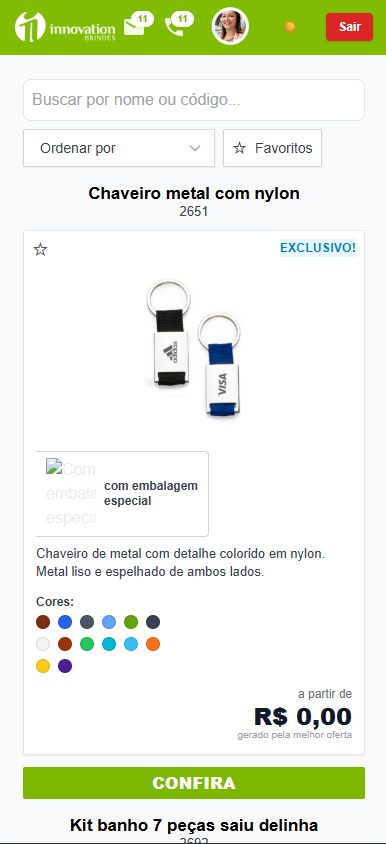
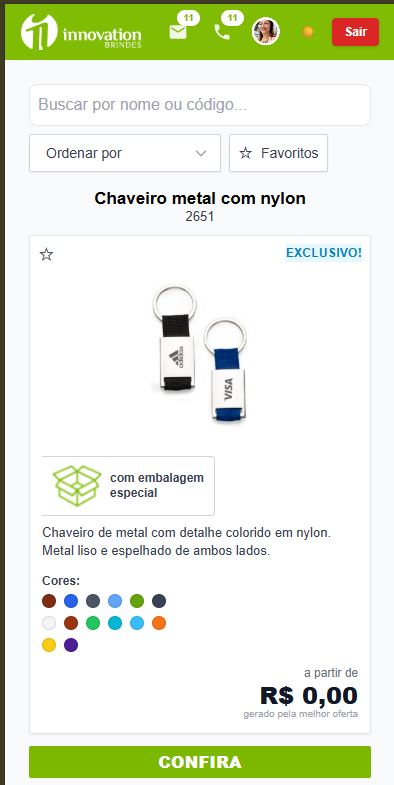
Atualiza imgs, melhora espacamento de itens navbar

diff --git a/src/components/Navbar.tsx b/src/components/Navbar.tsx
@@ -1,8 +1,7 @@
-import React from "react";
+import React, { useMemo } from "react";
 import Image from "next/image";
 import Link from "next/link";
 import ThemeToggle from "@/components/ThemeToggle";
-import { useMemo } from "react";
 import { useRouter } from "next/router";
 import { clearToken } from "@/utils/authStorage";
 import { useAuthUser } from "@/store/authUser";
@@ -74,23 +73,21 @@ export default function Navbar({
               <Image
                 src="/images/logo.webp"
                 alt="Innovation Brindes"
-                width={100}
-                height={100}
+                width={120}
+                height={120}
                 priority
                 className="filter brightness-0 invert"
               />
             </Link>
           </div>
-          <div className="flex items-center gap-5">
+          <div className="flex items-center gap-2 sm:gap-5">
             {showIcons && (
-              <div className="flex items-center gap-4 text-white">
-                <div className="relative">
+              <div className="flex items-center gap-2 sm:gap-3 text-white">
+                <span className="relative inline-flex h-9 w-9 items-center justify-center rounded-md">
                   <svg
-                    width="24"
-                    height="24"
+                    className="h-5 w-5 opacity-90"
                     viewBox="0 0 24 24"
                     aria-hidden="true"
-                    className="opacity-90"
                   >
                     <path
                       fill="currentColor"
@@ -98,18 +95,17 @@ export default function Navbar({
                     />
                   </svg>
                   {typeof mailBadge === "number" && (
-                    <span className="absolute -top-1 -right-2 rounded-full bg-white px-1.5 text-[10px] font-semibold leading-4 text-[#7CB800] shadow-sm">
+                    <span className="absolute -top-1 -right-1 rounded-full bg-white px-1.5 text-[10px] font-semibold leading-4 text-[#7CB800] shadow-sm">
                       {mailBadge}
                     </span>
                   )}
-                </div>
-                <div className="relative">
+                </span>
+
+                <span className="relative inline-flex h-9 w-9 items-center justify-center rounded-md">
                   <svg
-                    width="24"
-                    height="24"
+                    className="h-5 w-5 opacity-90"
                     viewBox="0 0 24 24"
                     aria-hidden="true"
-                    className="opacity-90"
                   >
                     <path
                       fill="currentColor"
@@ -117,15 +113,16 @@ export default function Navbar({
                     />
                   </svg>
                   {typeof phoneBadge === "number" && (
-                    <span className="absolute -top-1 -right-2 rounded-full bg-white px-1.5 text-[10px] font-semibold leading-4 text-[#7CB800] shadow-sm">
+                    <span className="absolute -top-1 -right-1 rounded-full bg-white px-1.5 text-[10px] font-semibold leading-4 text-[#7CB800] shadow-sm">
                       {phoneBadge}
                     </span>
                   )}
-                </div>
+                </span>
               </div>
             )}
+
             <div className="flex items-center gap-3">
-              <div className="h-12 w-12 overflow-hidden rounded-full">
+              <div className="h-9 w-9 sm:h-12 sm:w-12 overflow-hidden rounded-full shrink-0">
                 <Image
                   src={avatarSrc || "/images/user.webp"}
                   alt={displayName}
